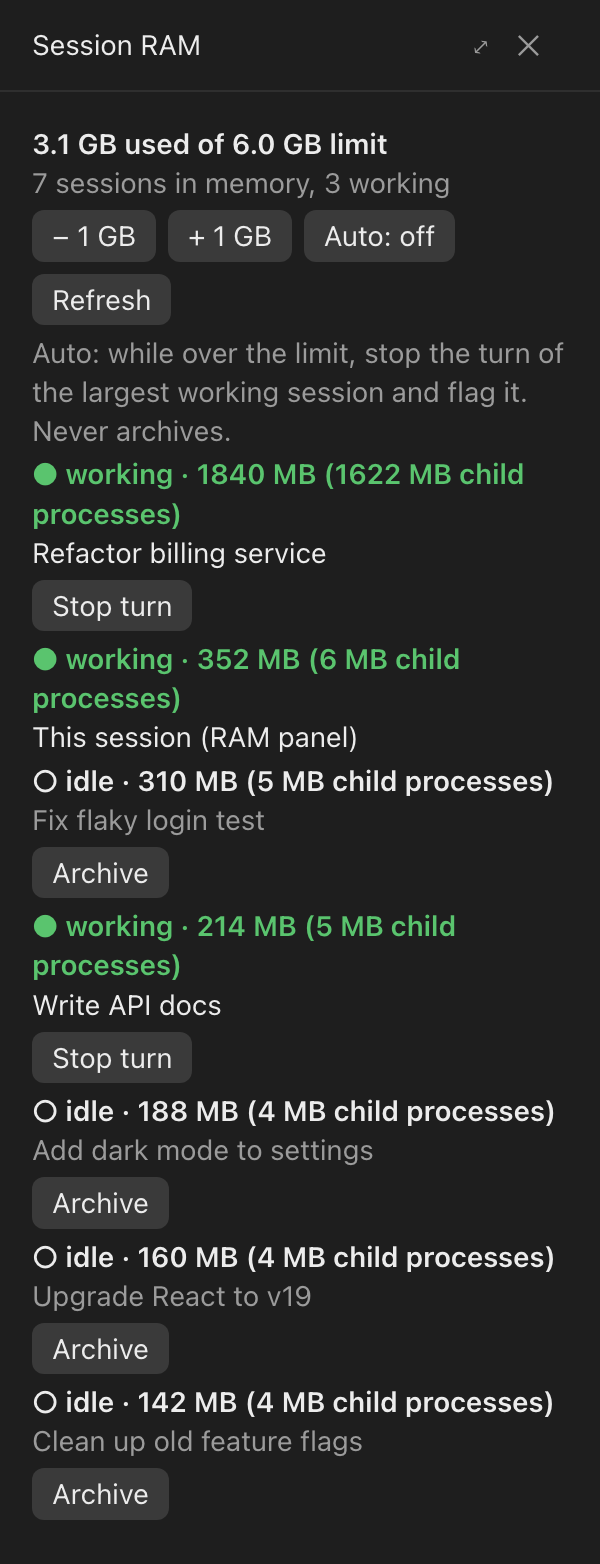
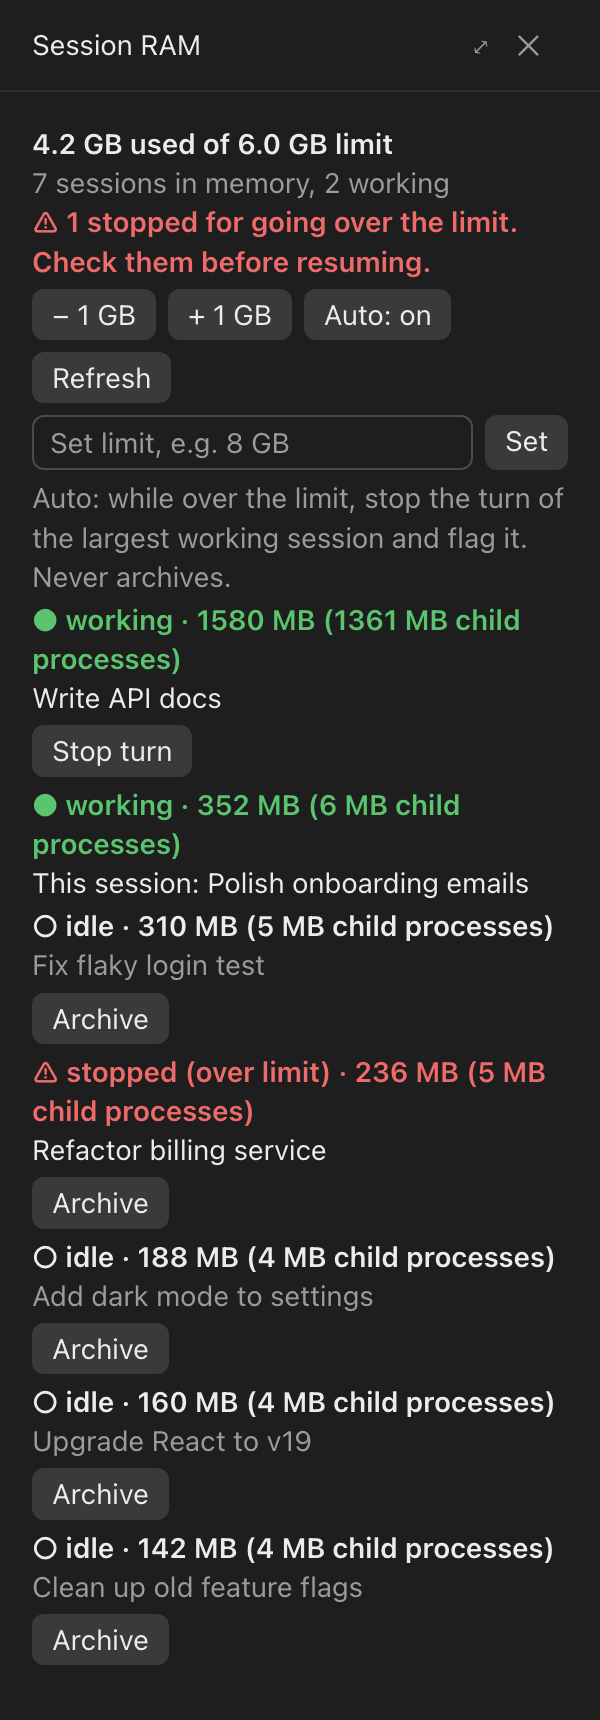
README: step-by-step install, troubleshooting, updated panel image and new menu-bar image

diff --git a/README.md b/README.md
@@ -1,81 +1,114 @@
 # Session RAM
 
-<img src="docs/screenshot.png" alt="The Session RAM panel: total RAM against a 6 GB limit, limit and Auto buttons, then one row per session with its RAM, working or idle status, and a Stop turn or Archive button" width="300">
+<img src="docs/screenshot.png" alt="The Session RAM panel: total RAM against a 6 GB limit, a box to type the limit, the Auto switch, then one row per session with its RAM and whether it is working, idle or stopped for going over the limit" width="300"> <img src="docs/menubar.png" alt="The Session RAM menu-bar menu on macOS: total RAM against the limit, then each session with its RAM, colored by status, and the Limit and Auto items" width="360">
 
-*The panel, shown with sample sessions.*
+*The panel inside a Claude session (left) and the macOS menu bar (right), shown with sample sessions.*
 
-A Claude Code mod for the Claude desktop app on macOS and Windows. It opens a **Session RAM** panel beside each Code session and shows:
+See how much RAM each Claude Code session in the Claude desktop app is using, which ones are working, and stop the ones that run away, on macOS and Windows.
 
-- every Claude Code session currently loaded in memory, largest first
-- how much RAM each one uses, counting its child processes (lint, tsc, dev servers)
-- whether it is **working** or **idle**
-- a **Stop turn** button for working sessions and an **Archive** button for idle ones
+- **Panel:** beside each Code session in the Claude desktop app.
+- **Menu bar (macOS) or tray icon (Windows):** always visible, whichever session you're in. Optional.
 
-It also has a RAM limit (default 6 GB). Type an exact value such as `8` or `8 GB` in the panel, or use **− 1 GB / + 1 GB**. Going over the limit shows a toast. With **Auto** on, while usage is over the limit it stops the in-progress turn of the largest working session (ending its lint, tsc and other child processes) and flags it in red as **⚠ stopped (over limit)**, so you can look into it before resuming or starting new sessions. The flag clears once you resume that session. Auto never archives anything, and it's off by default.
+Both show every session loaded in memory, largest first, with its RAM (including the lint, tsc and dev-server processes it started) and its status:
 
-The mod cannot hard-cap a process's RAM, so the limit is a warning plus optional archiving, not a hard cap.
+| Mark | Color | Meaning |
+| --- | --- | --- |
+| ● | green | **Working**: a turn is in progress. Has a **Stop turn** button. |
+| ○ | white | **Idle**: loaded and waiting for you. Its RAM is the conversation it holds in memory. |
+| ⚠ | red | **Stopped (over limit)**: Auto stopped its turn. Look into it before resuming; the flag clears once you resume it. |
+| · | gray | **Unknown**: no session running the mod has reported in the last minute (see Troubleshooting). |
+
+**Limit and Auto.** Set a RAM limit (default 6 GB) by typing a value like `8` or `8 GB`, or with the presets. Going over it warns you. With **Auto** on, while you're over the limit it stops the in-progress turn of the largest working session and flags it red, one session every 20 seconds at most. **Auto never archives or closes anything**, and it's off by default. The limit can't hard-cap RAM: it warns and, with Auto, stops turns.
 
 ## Install
 
-At the prompt of a terminal session:
+### Step 1: the mod (everyone)
 
-```
-/plugin marketplace add tjha/session-ram
-/plugin install session-ram@session-ram
-```
+1. Open the Claude desktop app and any Code session.
+2. Click **+** next to the prompt box, then **Plugins**.
+3. Choose **Add marketplace** and enter `tjha/session-ram`.
+4. Find **session-ram** in the list and choose **Add plugin**.
+5. Quit Claude completely and reopen it, so every session loads the mod (each session loads it only when it starts):
+   - macOS: press ⌘Q (closing the window isn't enough).
+   - Windows: right-click the Claude icon by the clock and choose **Quit**.
 
-From a shell:
+**You should see** the **Session RAM** panel beside your Code session. If you close it, type `/session-ram` to bring it back.
+
+Prefer a terminal? These two commands do steps 2–4:
 
 ```bash
 claude plugin marketplace add tjha/session-ram
 claude plugin install session-ram@session-ram
 ```
 
-In the desktop app, where `/plugin` does not run: click + next to the prompt box, then Plugins, Add marketplace with `tjha/session-ram`, then Add plugin.
+### Step 2 (optional): menu bar on macOS
 
-Installed at the user scope, the mod loads in every Code session the desktop app starts. Type `/session-ram` to reopen the panel after closing it.
+Needs [Homebrew](https://brew.sh). Run these in Terminal, one after another:
 
-## Menu bar (macOS)
+1. Install [SwiftBar](https://swiftbar.app), the free app that shows the menu:
 
-`menubar/session-ram.15s.py` shows the same information in the macOS menu bar, whichever session you're in: total RAM (red when over the limit or when Auto stopped something), and each loaded session with its RAM and status. Each session opens in Claude from its submenu, and a working one has **Stop turn**. The menu also sets the limit (type a value with **Set limit…**, or pick 4–16 GB) and the Auto switch. It needs [SwiftBar](https://swiftbar.app):
+   ```bash
+   brew install --cask swiftbar
+   ```
 
-```bash
-brew install --cask swiftbar
-```
+2. Download the menu-bar script:
 
-```bash
-mkdir -p ~/SwiftBarPlugins && curl -fsSL -o ~/SwiftBarPlugins/session-ram.15s.py https://raw.githubusercontent.com/tjha/session-ram/main/menubar/session-ram.15s.py && chmod +x ~/SwiftBarPlugins/session-ram.15s.py
-```
+   ```bash
+   mkdir -p ~/SwiftBarPlugins && curl -fsSL -o ~/SwiftBarPlugins/session-ram.15s.py https://raw.githubusercontent.com/tjha/session-ram/main/menubar/session-ram.15s.py && chmod +x ~/SwiftBarPlugins/session-ram.15s.py
+   ```
 
-Then open SwiftBar and choose `~/SwiftBarPlugins` as its plugin folder.
+3. Point SwiftBar at it and start SwiftBar:
 
-## Tray icon (Windows)
+   ```bash
+   defaults write com.ameba.SwiftBar PluginDirectory -string "$HOME/SwiftBarPlugins" && open -a SwiftBar
+   ```
 
-`tray/session-ram-tray.ps1` is the same thing as an icon in the Windows notification area, by the clock. It needs only the Windows PowerShell that comes with Windows. Click the icon for the session list, the limit and Auto. Run this in PowerShell:
+4. To start it when you log in:
 
-```powershell
-$dir = "$env:USERPROFILE\SessionRam"; New-Item -ItemType Directory -Force $dir | Out-Null
-Invoke-WebRequest https://raw.githubusercontent.com/tjha/session-ram/main/tray/session-ram-tray.ps1 -OutFile "$dir\session-ram-tray.ps1"
-Start-Process powershell -ArgumentList '-NoProfile','-WindowStyle','Hidden','-ExecutionPolicy','Bypass','-File',"$dir\session-ram-tray.ps1"
-```
+   ```bash
+   osascript -e 'tell application "System Events" to make login item at end with properties {path:"/Applications/SwiftBar.app", hidden:true}'
+   ```
 
-To start it when you sign in to Windows:
+**You should see** a memory-chip icon with your total RAM in the menu bar. Click it for the list. Each session's submenu has **Open in Claude** and, while it's working, **Stop turn**. **Limit** has **Set limit…** and presets from 4 to 16 GB. If SwiftBar shows a welcome window the first time, click through it.
 
-```powershell
-$s = (New-Object -ComObject WScript.Shell).CreateShortcut("$([Environment]::GetFolderPath('Startup'))\Session RAM.lnk")
-$s.TargetPath = 'powershell.exe'; $s.Arguments = "-NoProfile -WindowStyle Hidden -ExecutionPolicy Bypass -File `"$env:USERPROFILE\SessionRam\session-ram-tray.ps1`""; $s.Save()
-```
+### Step 2 (optional): tray icon on Windows
 
-The tray script is checked with its self-test (`-SelfTest`) under PowerShell 7 on macOS, not yet on Windows.
+Uses the PowerShell that comes with Windows. Open **PowerShell** (not as administrator) and run:
 
-## How the menu bar and tray talk to Claude
+1. Download the tray script and start it:
 
-Both measure RAM themselves. Working/idle status, Auto and **Stop turn** need at least one Claude session running the mod: the menu bar and tray can't reach the app's session controls, so they leave a stop request in `~/.claude/session-ram-requests.json` and the mod in any running session carries it out within about 3 seconds. A session can't stop its own turn, so stopping the only session running the mod needs another one open.
+   ```powershell
+   $dir = "$env:USERPROFILE\SessionRam"; New-Item -ItemType Directory -Force $dir | Out-Null
+   Invoke-WebRequest https://raw.githubusercontent.com/tjha/session-ram/main/tray/session-ram-tray.ps1 -OutFile "$dir\session-ram-tray.ps1"
+   Start-Process powershell -ArgumentList '-NoProfile','-WindowStyle','Hidden','-ExecutionPolicy','Bypass','-File',"$dir\session-ram-tray.ps1"
+   ```
 
-## Notes
+2. To start it when you sign in to Windows:
 
-- Refreshes every 15 seconds. Each session with the mod runs its own refresh: one process listing (`ps` on macOS, a PowerShell `Get-CimInstance Win32_Process` query on Windows) plus one lookup per loaded session.
-- Archiving a session stops its process and, by default, removes its worktree; the app keeps a worktree with uncommitted changes. Archived sessions can be restored from the Archived list.
-- The limit and the Auto setting are shared by all sessions, the menu bar and the tray, through `~/.claude/session-ram-settings.json`. The mod also writes its latest snapshot to `~/.claude/session-ram-status.json` and the sessions Auto stopped to `~/.claude/session-ram-stopped.json`.
-- Session names come from the desktop app's files under `~/Library/Application Support/Claude/claude-code-sessions` (macOS) or `%APPDATA%\Claude\claude-code-sessions` (Windows); working/idle status and the buttons use the app's own session tools, so they work only inside the desktop app.
-- Windows support is checked with sample data only, not yet on a Windows machine. If the panel says "Could not measure" there, please open an issue with that line.
+   ```powershell
+   $s = (New-Object -ComObject WScript.Shell).CreateShortcut("$([Environment]::GetFolderPath('Startup'))\Session RAM.lnk")
+   $s.TargetPath = 'powershell.exe'; $s.Arguments = "-NoProfile -WindowStyle Hidden -ExecutionPolicy Bypass -File `"$env:USERPROFILE\SessionRam\session-ram-tray.ps1`""; $s.Save()
+   ```
+
+**You should see** a new icon by the clock (it may be under the **^** arrow; drag it out to keep it visible). Hover for the total; click it for the same list and controls as the macOS menu. **Exit** is at the bottom of the menu.
+
+The tray script has passed its self-test under PowerShell 7, but hasn't been run on Windows yet. If it misbehaves, please open an issue.
+
+## Troubleshooting
+
+- **"Working/idle unknown", or no Stop turn buttons.** The menu bar and tray measure RAM on their own, but working/idle status, Stop turn and Auto come from the mod running inside Claude sessions. At least one session started *after* you installed the mod must be open. Quit and reopen Claude (Step 1, item 5), or open a new Code session.
+- **Stop turn does nothing for one session.** A session can't stop its own turn. If that session is the only one running the mod, open another session.
+- **No panel.** Type `/session-ram` in the session.
+- **No menu-bar icon.** Check that `~/SwiftBarPlugins/session-ram.15s.py` exists and is executable (step 2 sets this), and that SwiftBar is running.
+
+## How it works
+
+- Every session with the mod measures all sessions every 15 seconds: one process listing (`ps` on macOS, PowerShell `Get-CimInstance Win32_Process` on Windows) and one status lookup per session through the app's own session tools.
+- Shared files in `~/.claude` (Windows: `%USERPROFILE%\.claude`) connect the panel, the menu bar and the tray:
+  - `session-ram-settings.json`: the limit and the Auto switch.
+  - `session-ram-status.json`: the latest snapshot, which the menu bar and tray read.
+  - `session-ram-stopped.json`: the sessions Auto stopped.
+  - `session-ram-requests.json`: Stop turn requests from the menu bar or tray. Any session running the mod carries them out within about 3 seconds.
+- Session names come from the app's files under `~/Library/Application Support/Claude/claude-code-sessions` (macOS) or `%APPDATA%\Claude\claude-code-sessions` (Windows).
+- On Windows, a session started fresh since the app opened shows as "Unknown session" until it's resumed, because Windows doesn't let one process read another's environment, where its ID lives.
+- The panel's **Archive** button is the only thing that archives, and only when you press it.
